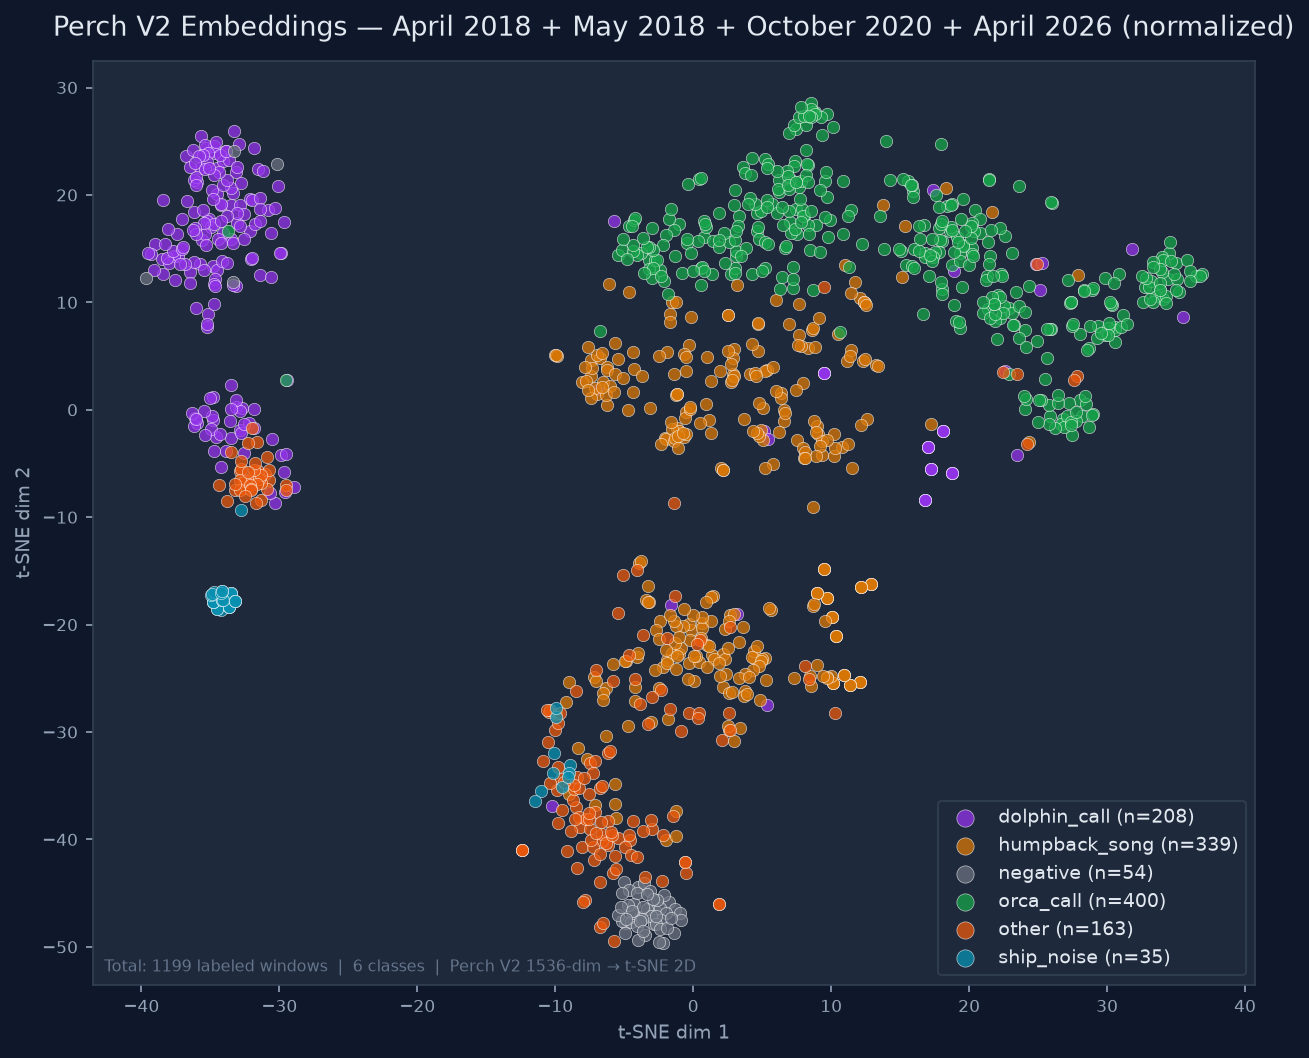
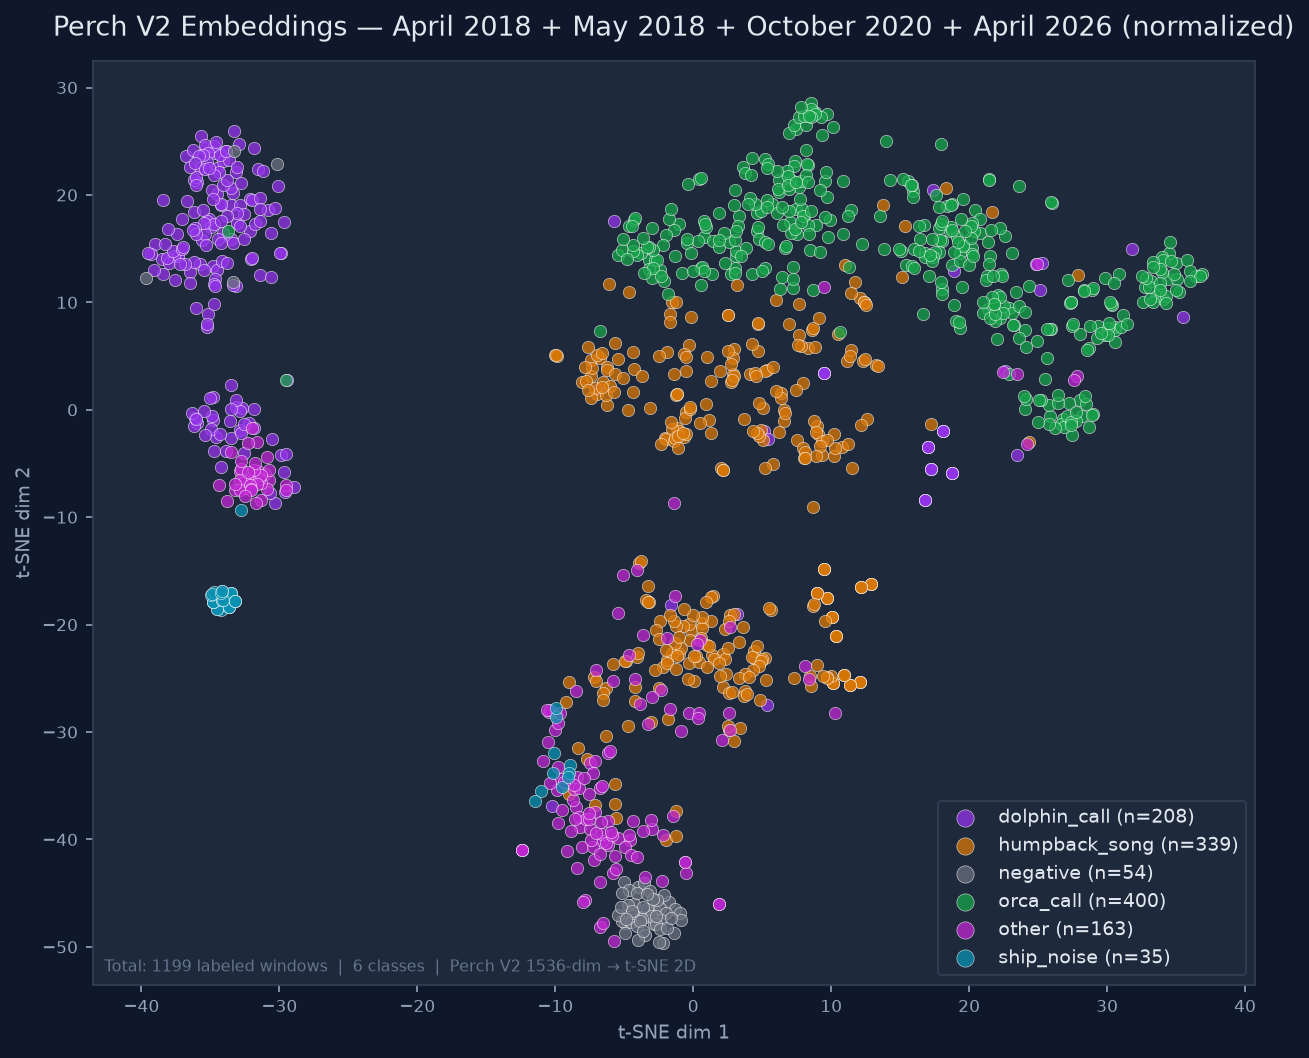
fix other class color to magenta in t-SNE; regenerate 4-season plot

diff --git a/tools/plot_tsne.py b/tools/plot_tsne.py
@@ -37,7 +37,7 @@ LABEL_COLORS = {
     "fin_whale_call":"#2563eb",   # blue
     "dolphin_call":  "#9333ea",   # purple
     "ship_noise":    "#0891b2",   # teal
-    "other":         "#ea580c",   # orange
+    "other":         "#c026d3",   # magenta
     "negative":      "#6b7280",   # gray
     "background":    "#6b7280",   # gray
 }
